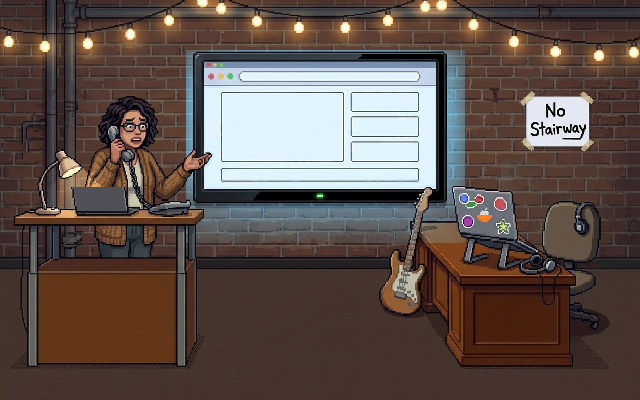
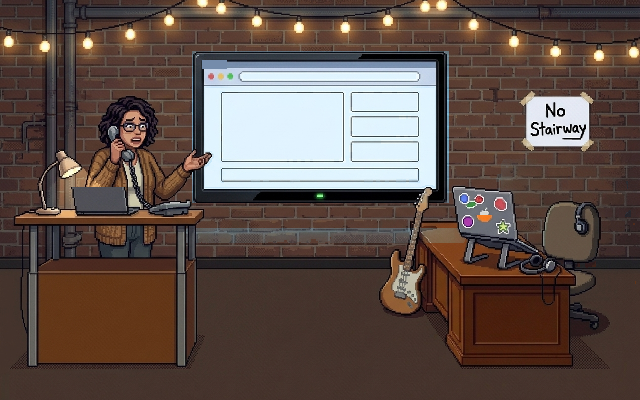
art: room-ch3 remove painted glow, clean artifacts (2026-11-13)
Claude-Session: https://claude.ai/code/session_014bw7Voj6ZyqA75pqeRWNHh

Changed region(s): [[0.2812, 0.12, 0.75, 0.57], [0.2812, 0.12, 0.375, 0.39]]

diff --git a/art-drops/2026-11-12-room-ch3/HANDBACK.md b/art-drops/2026-11-12-room-ch3/HANDBACK.md
@@ -64,12 +64,15 @@ Cloud Claude rewrote chapter 3 around this drop. These changes fit the art to it
 
 ## Round 2 (Rick, 2026-11-13)
 
-- **The wall display now clearly reads as a TV monitor,** not a whiteboard. It has a thick black bezel, a power light, and a blue glow on the bricks. The page has a **browser title bar** (three dots and an empty address bar). The same change is in `R3_wall_closeup`.
+- **The wall display now clearly reads as a TV monitor,** not a whiteboard. It has a thick black bezel and a power light. (A painted glow on the bricks was tried and removed: Rick said it read as errant paint. See "Screen glow" below.) The page has a **browser title bar** (three dots and an empty address bar). The same change is in `R3_wall_closeup`.
   - **Wide shot:** the browser bar replaced the old top progress bar. In the room view, draw the progress in the address bar (**x 120–209, y 36–40**) or skip it, since text is too small at that size anyway. The other panels are unchanged: large x 111–171, y 46–80; small x 176–208 at y 46–55, 58–67, 71–80; lane x 111–208, y 84–90; whole screen x 102–217, y 34–94.
   - **Close-up:** title bar y 22–32 with the address bar x 97–223, y 24–30; **top bar (progress) x 54–265, y 39–51**; large x 54–183, y 60–137; small x 192–265 at y 60–80, 88–109, 117–137; lane x 54–265, y 147–160. The page is pale, so draw in dark ink.
 - **The two old CRT monitors and their cabinet in the back right corner are gone.** Rick: they looked like 80s portable TVs. Only brick wall is behind the chair now.
 - **New sign: a handwritten "No Stairway" sheet** taped on the right wall at **x 263–294, y 48–72**. It's the only writing in the room, at Rick's request, so the guitar can get the prompt "No Stairway to Heaven". It could be its own small hotspot.
 - **`R3_npc_talk_2` and `R3_npc_win` were remade** on the new plate. Her figure now changes inside **x 7–120, y 7–161** across all three frames. **The frame-swap area for this room is x 7, y 7, w 114, h 155.**
+
+- **Screen glow is the code's job (Rick, 2026-11-13).** The art has no glow. Draw a soft halo around the monitor's bezel (**x 96–224, y 25–102**), fading out over about 6–10 px, dithered to fit the palette rather than a smooth gradient, with no hard edge. Animate its intensity, flickering irregularly between pure white and a slightly darker bluish white, the way a TV lights a dark room. Tint the screen's pale page with the same flicker. Reduced motion: hold it steady at a low level, or leave it off.
+- Also cleaned in this pass: a duplicate set of tiny browser dots above the title bar, and a stray white motion-arrow by her wrist in `R3_npc_win`.
 
 ## Flaws kept
 
